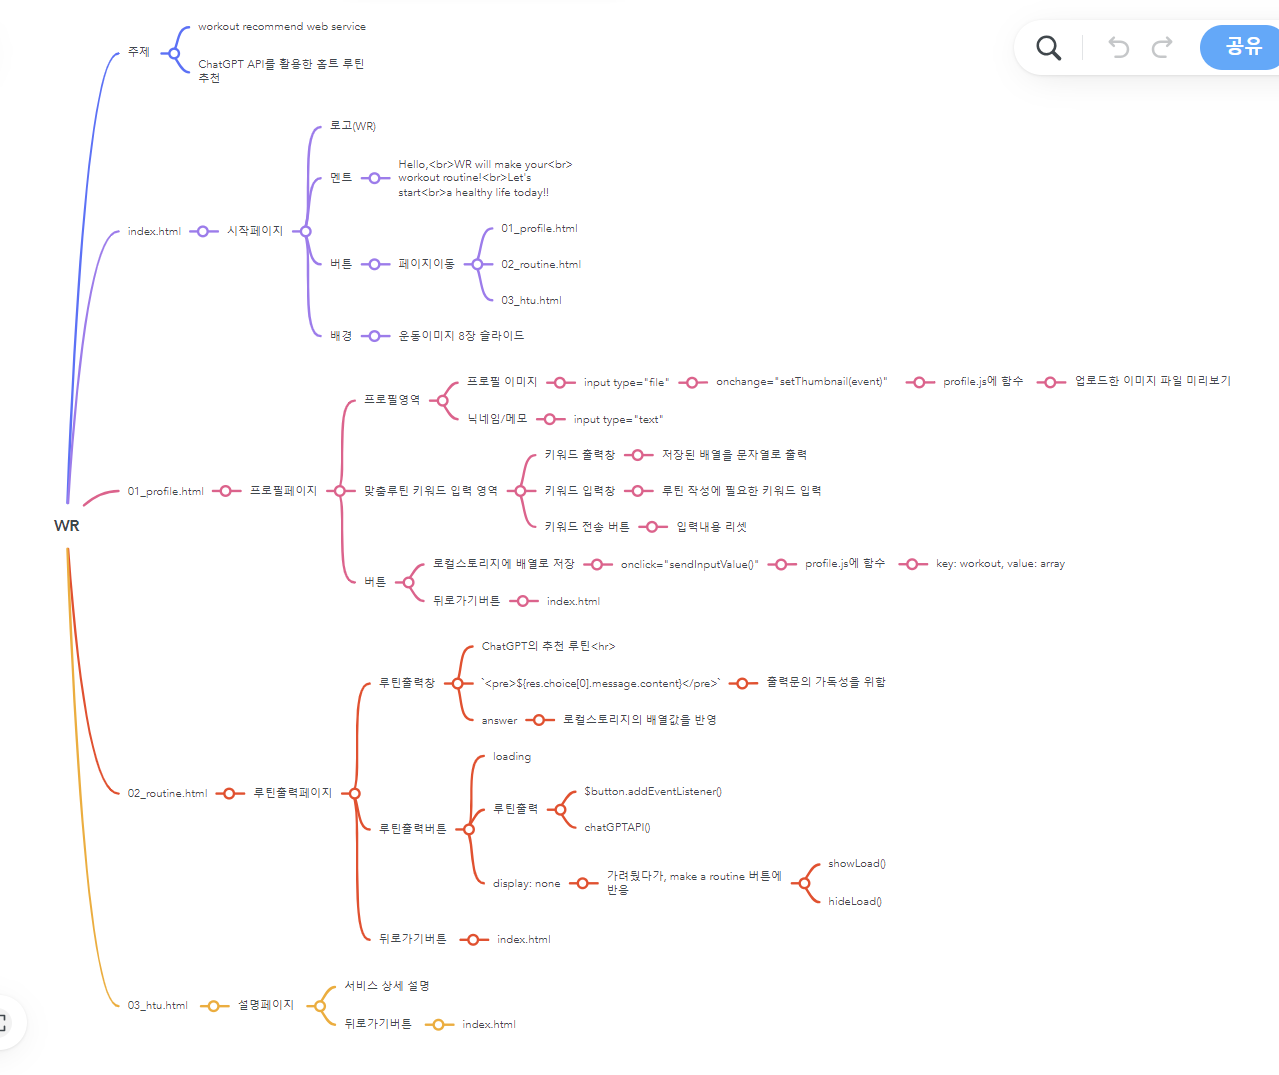
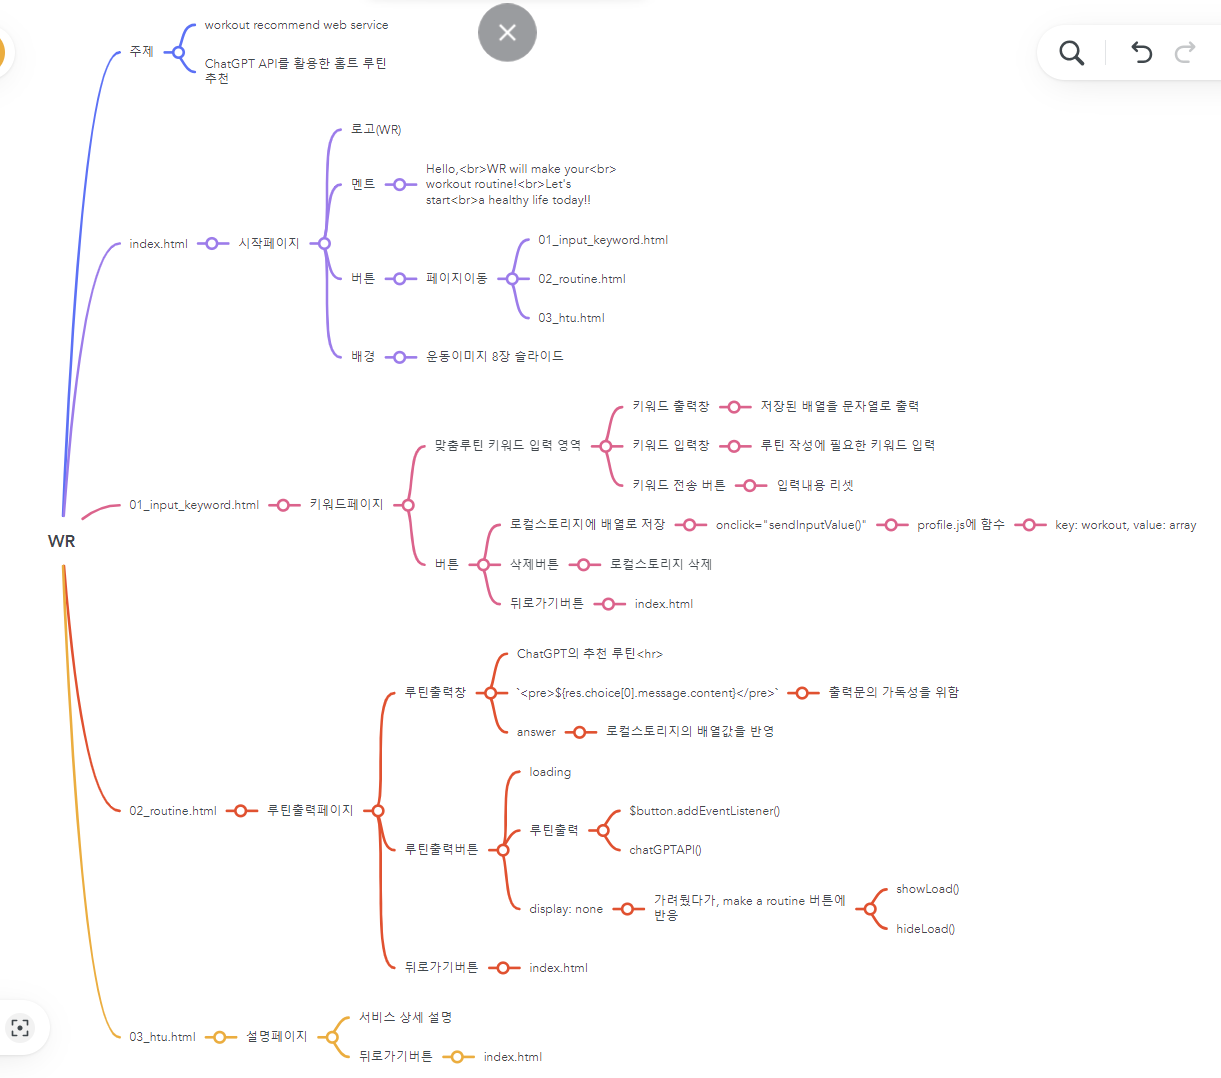
수정2차

diff --git a/html_set/01_input_keyword.html b/html_set/01_input_keyword.html
@@ -1,0 +1,40 @@
+<!DOCTYPE html>
+<html lang="ko-KR">
+
+<head>
+  <meta charset="UTF-8">
+  <meta name="viewport" content="width=device-width, initial-scale=1.0">
+  <title>WR: 홈트루틴추천</title>
+  <link rel="stylesheet" href="../css_set/common.css">
+  <link rel="stylesheet" href="../css_set/input_keyword.css">
+</head>
+
+<body class="img-slide">
+  <header>
+    <h1 class="logo">WR</h1>
+    <p class="logo-sub">WorkoutRecommend</p>
+  </header>
+  <main>
+    <div class="submit-box">
+      <p>루틴 추천 키워드</p>
+      <hr>
+      <div class="output" id="outputValue">
+        <!-- 입력값&nbsp;&nbsp; -->
+      </div>
+      <div class="inner-box">
+        <div class="input-box">
+          <input class="input-value" type="text" name="keyword" id="inputValue" placeholder="ex. 가슴, 턱걸이, 덤벨()kg...">
+          <button onclick="sendInputValue()">+</button>
+        </div>
+      </div>
+    </div>
+    <div class="btn-set">
+      <button class="btn" type="button" id="sendLSButton" onclick="sendLocalStorage()">save</button>
+      <button class="btn" type="button" id="delete" onclick="deleteAll()">delete</button>
+      <button class="btn" type="button" onclick="location.href='../index.html'">back</button>
+    </div>
+  </main>
+  <script src="../js_set/input_keyword.js"></script>
+</body>
+
+</html>

diff --git a/css_set/input_keyword.css b/css_set/input_keyword.css
@@ -1,0 +1,57 @@
+/* 키워드 영역 */
+.submit-box {
+  width: 310px;
+  height: 295px;
+  overflow-y: auto; 
+  margin: 20px auto 0;
+  padding: 10px;
+  background-color: rgba(0, 0, 0, 0.6);
+  border: none;
+  border-radius: 5px;
+  margin-bottom: 30px;
+  position: relative;
+}
+
+p,
+.output {
+  color: white;
+}
+
+.output {
+  font-size: 20px;
+}
+
+.inner-box {
+  position: absolute;
+  bottom: 10px;
+}
+
+.input-box {
+  position: relative;
+}
+
+.input-box button{
+  position: absolute;
+  width: 30px;
+  height: 30px;
+  border-radius: 20px;
+  top: 0;
+  bottom: 0;
+  right: 10px;
+  margin: auto;
+  background-color: #aaa;
+  color: white;
+  font-display: center;
+  border: none;
+  font-size: 20px;
+}
+
+.input-value {
+  width:300px;
+  height:40px;
+  font-size:20px;
+  border-radius: 10px;
+  background-color: rgba(0, 0, 0, 0.8);
+  border: 1px solid white;
+  color: white;
+}

diff --git a/js_set/input_keyword.js b/js_set/input_keyword.js
@@ -1,0 +1,31 @@
+// 키워드 입출력
+const inputData = [];
+
+function sendInputValue() {
+  const inputValue = document.getElementById("inputValue");
+  const keyWord = inputValue.value.trim();
+
+  if (keyWord !== "") {
+    inputData.push(keyWord);
+    keyWordOutput();
+    inputValue.value = '';
+    console.log(inputData);
+  }
+}
+
+function keyWordOutput() {
+  const outputValue = document.getElementById("outputValue");
+  outputValue.innerHTML = inputData.join("&nbsp;&nbsp;");
+}
+
+// save 버튼으로 배열을 localstorage에 저장
+function sendLocalStorage() {
+  localStorage.setItem('workout', JSON.stringify(inputData));
+}
+
+// delete 버튼으로 전체 삭제
+function deleteAll() {
+  localStorage.removeItem('workout');
+  inputData.splice(0, inputData.length);
+  keyWordOutput();
+}

diff --git a/index.html b/index.html
@@ -25,7 +25,7 @@
 
     <div class="btn-set">
       <button class="btn" type="button" onclick="location.href='./html_set/02_routine.html'">start</button>
-      <button class="btn" type="button" onclick="location.href='./html_set/01_profile.html'">profile</button>
+      <button class="btn" type="button" onclick="location.href='./html_set/01_input_keyword.html'">keyword</button>
       <button class="btn" type="button" onclick="location.href='./html_set/03_htu.html'">how to use</button>
     </div>
   </main>

diff --git a/README.md b/README.md
@@ -34,10 +34,10 @@
 |       box_text.css
 |       common.css
 |       loading.css
-|       profile.css
+|       input_keyowrd.css
 |
 +---html_set
-|       01_profile.html
+|       01_input_keyowrd.html
 |       02_routine.html
 |       03_htu.html
 |
@@ -45,27 +45,27 @@
 |
 \---js_set
         chatgpt.js
-        profile.js
+        input_keyowrd.js
 ```
 ## 4. UI
 ### 4.1 서비스 사용 설명 페이지를 제외한 모든 페이지들은 배경 이미지 슬라이드가 적용됩니다.<br>
-![Alt text](img/background.gif)<br>
+![Alt text](img/backImg.gif)<br>
 - 서비스 사용 설명 페이지의 경우 문단이 길어 화면 전환이 잦으면, 사용자의 가독성이 떨어질 것을 방지하기 위해 배경 이미지 하나만 넣었습니다.
 - 루틴 출력 페이지의 경우는 루틴 출력에 걸리는 대기 시간에 지루함 방지를 위해서 전환 효과를 주었습니다.
 - 서비스의 주된 사용자가 운동 초보자임을 가정하였을 때, 루틴을 전부 암기하기보다는 한 가지 동작을 수행하고 다시 화면을 볼 것을 가정하였고, 사용자가 서비스 이용 중 가장 오래 볼 페이지인 루틴 출력 페이지이기에 서비스 자체가 동적인 느낌을 받을 수 있도록 의도하였습니다. 
-### 4.2 "start", "profile", "how to use", "back" 버튼 클릭으로 페이지 전환이 가능합니다.<br>
-![Alt text](img/buttonV2.gif)<br>
+### 4.2 "start", "keyword", "how to use", "back" 버튼 클릭으로 페이지 전환이 가능합니다.<br>
+![Alt text](img/pageChange.gif)<br>
 - 기본적인 페이지의 디자인과 구성을 최대한 통일하여 배경 이미지 전환을 더욱 강조하였습니다.
 - "how to use" 페이지에서 사용자가 WR이라는 웹 서비스에 대한 상세 설명을 확인 할 수 있습니다.
 
-### 4.3 "profile" 페이지에서 홈 트레이닝 루틴을 추천 받기 위한 키워드를 입력하고 "save" 와 "delete" 버튼 클릭을 통해 키워드를 저장 및 삭제를 할 수 있습니다.<br>
-![Alt text](img/keywordV2.gif)<br>
+### 4.3 "keyword" 페이지에서 홈 트레이닝 루틴을 추천 받기 위한 키워드를 입력하고 "save" 와 "delete" 버튼 클릭을 통해 키워드를 저장 및 삭제를 할 수 있습니다.<br>
+![Alt text](img/inputDel.gif)<br>
 - "루틴 추천 키워드" 입력란에 운동하고 싶은 부위, 방식, 혹은 소지하고 있는 운동기구를 입력하고 "+" 버튼으로 하나씩 배열로 만들어 출력합니다. 사용자에게는 다시 문자열로 바꾸어 입력한 키워드를 확인할 수 있습니다.
 - 하단의 "delete" 버튼을 클릭하면 출력된 내용을 지웁니다.
 
 ### 4.4 "save", "delete" 버튼을 클릭하면 입력된 키워드가 로컬스토리지에 저장, 삭제 됩니다.<br>
-![Alt text](img/saveLS.gif)<br>
-![Alt text](img/delLS.gif)<br>
+![Alt text](img/saveLocal.gif)<br>
+![Alt text](img/delLocal.gif)<br>
 - 키워드 입력이 완료 되었다면, "save" 버튼으로 키워드 저장이 가능합니다.
 - 키워드는 로컬스토리지에 {key: "workout", value: "입력한 키워드의 배열"}로 저장됩니다.<br>
 - "delet" 버튼은 사용자가 보는 화면의 키워드만을 지우는 것이 아닌, 로컬스토리지의 value값도 함께 삭제해 줍니다.
@@ -82,4 +82,4 @@
 - 추천 루틴을 받았지만, 동일한 키워드로 다른 루틴을 원할 경우 "make a routine" 버튼을 다시 클릭하면 로딩 표시와 메세지가 다시 나타나며, 새로운 추천 루틴을 출력합니다.
 
 ## 5. 후기
-- 첫 개인 프로젝트를 진행하면서, 앞서 배웠던 HMTL, CSS, JS를 적용해 볼 수 있는 좋은 기회였습니다. 또한 개발 공부 경험 자체가 적다보니 스스로의 기획과 JS코드 구현에 대한 능력이 미흡했던 부분을 직면할 수 있었습니다.
+- 첫 개인 프로젝트를 진행하면서, 앞서 배웠던 HMTL, CSS, JS를 적용해 볼 수 있는 좋은 기회였습니다. 또한 개발 공부 경험 자체가 적다보니 스스로의 기획과 JS코드 구현에 대한 능력이 미흡했던 부분을 직면할 수 있었습니다. 
